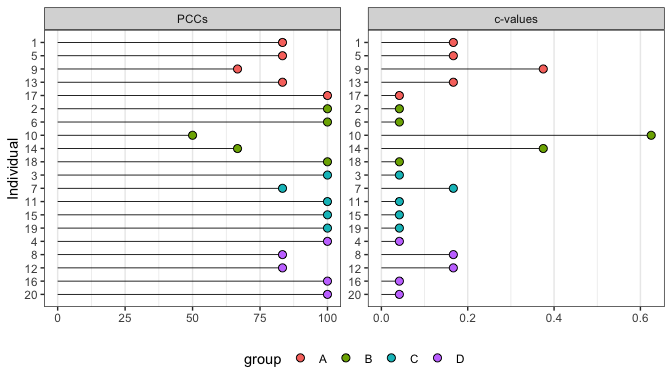
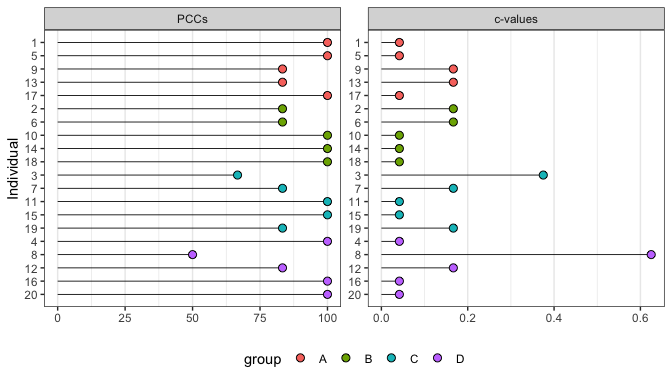
version 0.4.3

diff --git a/src/cpp_functions.cpp b/src/cpp_functions.cpp
@@ -68,10 +68,12 @@ IntegerVector c_sign_with_threshold(NumericVector xs, float diff_threshold) {
 // [[Rcpp::export]]
 NumericVector c_all_diffs(NumericVector xs) {
   // Initialize variables
-  int count {0};
+  int count{0};
   // Calculate the length of the vector as the Nth-1 triangular number.
   // This is needed to pre-size an empty vector.
-  long long n_pairs {((xs.length() - 1) * xs.length()) / 2};
+  // Note that brace initialisation of n_pairs catches narrowing from R's
+  // long long int if n_pairs is initialised with type int or size_t.
+  long long n_pairs{((xs.length() - 1) * xs.length()) / 2};
   // Create empty vector of the correct size to hold all pairwise differences.
   NumericVector diffs(n_pairs);
   // Fill the diffs vector with the difference between each pair of
@@ -131,8 +133,8 @@ IntegerVector c_ordering(NumericVector xs, String pairing_type, float diff_thres
  */
 // [[Rcpp::export]]
 List c_compare_perm_pccs(NumericMatrix perms, List m, int indiv_idx, IntegerVector H_ord) {
-  int n_perms_greater_eq {0};
-  float diff_threshold = m["diff_threshold"];
+  int n_perms_greater_eq{0};
+  double diff_threshold{m["diff_threshold"]};
   String pairing_type = m["pairing_type"];
   NumericVector obs_pcc = m["individual_pccs"];
   NumericVector perm_pcc(perms.ncol());
@@ -166,9 +168,9 @@ List c_compare_perm_pccs(NumericMatrix perms, List m, int indiv_idx, IntegerVect
  */
 // [[Rcpp::export]]
 NumericMatrix c_generate_permutations(NumericVector v) {
-  long long N {v.length()};
+  long long N{v.length()};
   // calculate factorial of N to pre-size matrix
-  long nperms {1};
+  long nperms{1};
   for (long i = 1; i <= N; ++i)
     nperms *= i;
   // preallocate matrix

diff --git a/README.md b/README.md
@@ -110,26 +110,26 @@ dat <- data.frame(t1 = rnorm(20, mean = 12, sd = 2),
                   
 round(dat, 2)
 #>       t1    t2    t3    t4
-#> 1  12.49 18.16 18.76 14.47
-#> 2  10.88 15.39 18.68 16.17
-#> 3  11.96 16.60 19.78 16.75
-#> 4   9.35 12.99 21.88 17.26
-#> 5  13.98 12.20 18.06 16.92
-#> 6  12.84 16.71 18.34 18.34
-#> 7   9.96 14.49 17.07 20.46
-#> 8  12.13 15.54 18.14 14.57
-#> 9   8.85 15.32 14.13 17.38
-#> 10 11.81 17.94 16.55 17.65
-#> 11 11.30 12.79 18.68 17.43
-#> 12 15.29 14.53 19.84 17.54
-#> 13  6.82 16.04 19.50 19.95
-#> 14 13.14 16.23 23.17 12.59
-#> 15  7.88 11.99 22.48 16.64
-#> 16 13.71 14.38 20.54 14.76
-#> 17 13.71 14.88 20.16 17.22
-#> 18  9.94 13.24 21.07 20.81
-#> 19 13.84 13.87 20.78 15.74
-#> 20 14.69 16.51 21.95 17.55
+#> 1  10.61 14.15 19.37 16.50
+#> 2  10.02 16.42 21.04 15.17
+#> 3  14.44 11.43 20.49 13.62
+#> 4  10.52 12.05 23.08 20.58
+#> 5   7.77 14.22 17.57 15.51
+#> 6   9.19 16.51 17.88 15.69
+#> 7  12.32 11.95 19.01 16.16
+#> 8  10.09 19.56 15.57 18.09
+#> 9  11.88 15.02 21.99 14.59
+#> 10 13.30 14.80 23.54 16.11
+#> 11  9.56 11.03 19.50 16.09
+#> 12 14.13 17.04 18.67 15.26
+#> 13 12.94 15.76 17.74 14.49
+#> 14 11.62 14.64 19.88 16.23
+#> 15 14.38 15.40 19.57 18.63
+#> 16 12.96 13.55 20.48 13.99
+#> 17 11.77 13.49 23.36 16.79
+#> 18 11.97 15.43 20.49 15.79
+#> 19 13.43 12.78 18.93 17.13
+#> 20 12.13 15.91 22.82 18.20
 ```
 
 An ordinal pattern analysis model to consider how the hypothesis `h`
@@ -146,30 +146,30 @@ summary(opamod)
 #> Ordinal Pattern Analysis of 4 observations for 20 individuals in 1 group 
 #> 
 #> Between subjects results:
-#>          PCC cval
-#> pooled 89.17 0.14
+#>        PCC cval
+#> pooled  90 0.13
 #> 
 #> Within subjects results:
 #>       PCC cval
-#> 1   83.33 0.17
-#> 2  100.00 0.04
-#> 3  100.00 0.04
+#> 1  100.00 0.04
+#> 2   83.33 0.17
+#> 3   66.67 0.38
 #> 4  100.00 0.04
-#> 5   83.33 0.17
-#> 6  100.00 0.04
+#> 5  100.00 0.04
+#> 6   83.33 0.17
 #> 7   83.33 0.17
-#> 8   83.33 0.17
-#> 9   66.67 0.38
-#> 10  50.00 0.62
+#> 8   50.00 0.62
+#> 9   83.33 0.17
+#> 10 100.00 0.04
 #> 11 100.00 0.04
 #> 12  83.33 0.17
 #> 13  83.33 0.17
-#> 14  66.67 0.38
+#> 14 100.00 0.04
 #> 15 100.00 0.04
 #> 16 100.00 0.04
 #> 17 100.00 0.04
 #> 18 100.00 0.04
-#> 19 100.00 0.04
+#> 19  83.33 0.17
 #> 20 100.00 0.04
 #> 
 #> PCCs were calculated for pairwise ordinal relationships using a difference threshold of 0.
@@ -194,15 +194,17 @@ produced by a call to `opa()`:
 condition_comparisons <- compare_conditions(opamod)
 
 condition_comparisons$pccs
-#>    2   3  4
-#> 1 90 100 95
-#> 2 NA  90 80
-#> 3 NA  NA 80
+#>     1  2  3 4
+#> 1   -  -  - -
+#> 2  85  -  - -
+#> 3 100 95  - -
+#> 4  95 70 95 -
 condition_comparisons$cvals
-#>      2    3     4
-#> 1 0.55 0.50 0.525
-#> 2   NA 0.55 0.600
-#> 3   NA   NA 0.600
+#>       1     2     3 4
+#> 1     -     -     - -
+#> 2 0.575     -     - -
+#> 3   0.5 0.525     - -
+#> 4 0.525  0.65 0.525 -
 ```
 
 ### Multiple groups
@@ -226,30 +228,30 @@ summary(opamod2)
 #> 
 #> Between subjects results:
 #>     PCC cval
-#> A 83.33 0.18
-#> B 83.33 0.22
-#> C 96.67 0.07
-#> D 93.33 0.09
+#> A 93.33 0.09
+#> B 93.33 0.09
+#> C 86.67 0.16
+#> D 86.67 0.18
 #> 
 #> Within subjects results:
 #>   Individual    PCC cval
-#> A          1  83.33 0.17
-#> A          5  83.33 0.17
-#> A          9  66.67 0.38
+#> A          1 100.00 0.04
+#> A          5 100.00 0.04
+#> A          9  83.33 0.17
 #> A         13  83.33 0.17
 #> A         17 100.00 0.04
-#> B          2 100.00 0.04
-#> B          6 100.00 0.04
-#> B         10  50.00 0.62
-#> B         14  66.67 0.38
+#> B          2  83.33 0.17
+#> B          6  83.33 0.17
+#> B         10 100.00 0.04
+#> B         14 100.00 0.04
 #> B         18 100.00 0.04
-#> C          3 100.00 0.04
+#> C          3  66.67 0.38
 #> C          7  83.33 0.17
 #> C         11 100.00 0.04
 #> C         15 100.00 0.04
-#> C         19 100.00 0.04
+#> C         19  83.33 0.17
 #> D          4 100.00 0.04
-#> D          8  83.33 0.17
+#> D          8  50.00 0.62
 #> D         12  83.33 0.17
 #> D         16 100.00 0.04
 #> D         20 100.00 0.04
